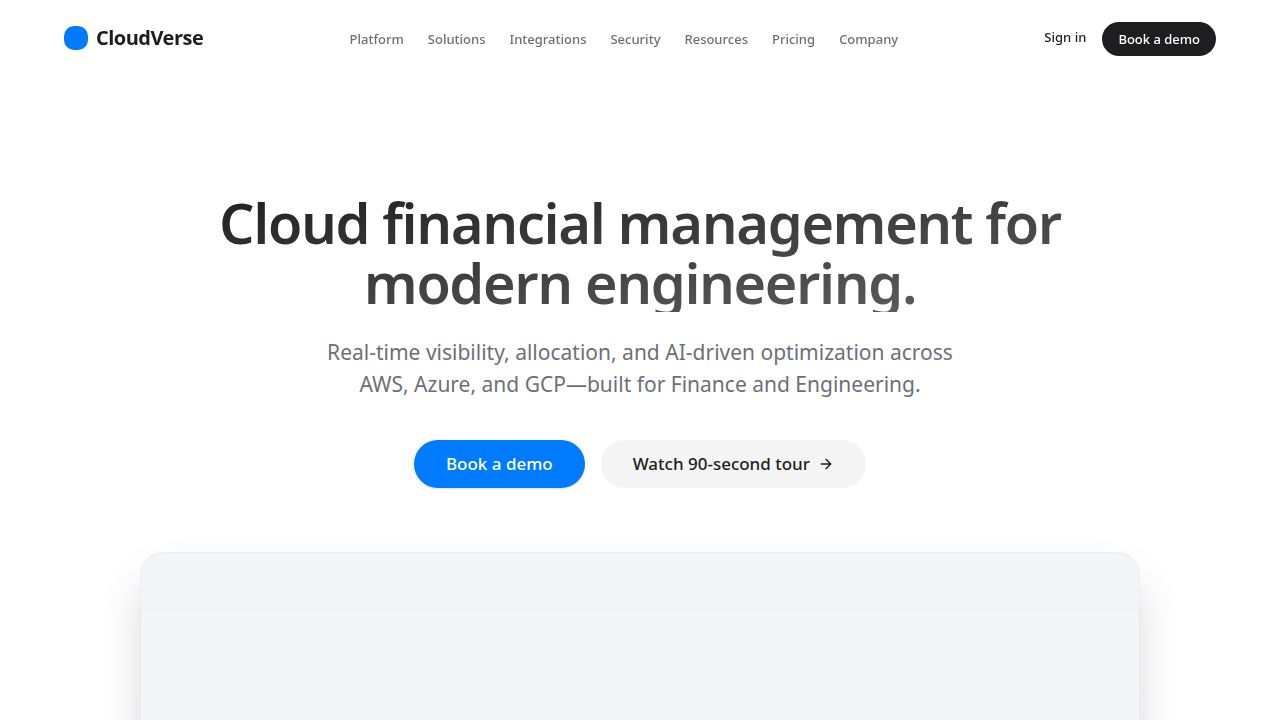
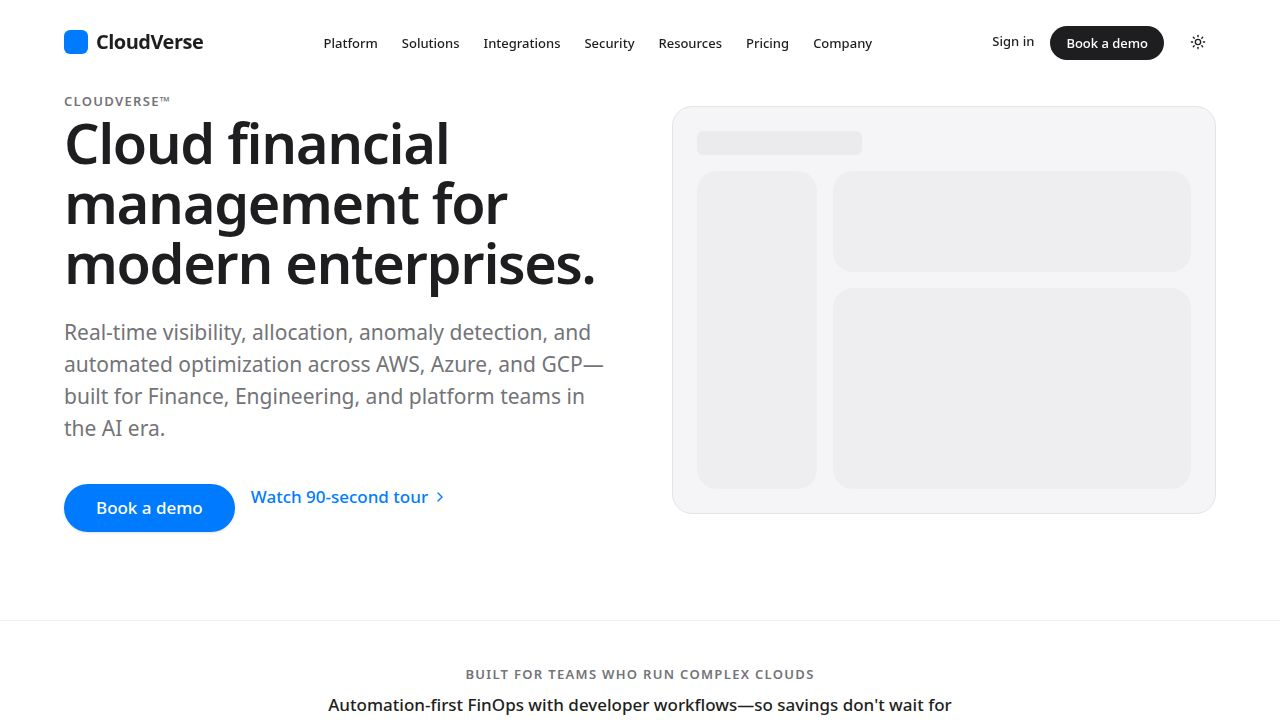
Update the home page with new copy and layout
Modify the Hero section of the Home page, updating copy, layout, and replacing the hero image with a skeleton loader.

Replit-Commit-Author: Agent
Replit-Commit-Session-Id: 45eca601-e429-41cd-93be-bbec7422ac92
Replit-Commit-Checkpoint-Type: full_checkpoint
Replit-Commit-Event-Id: 4e4f1e77-fca7-456c-b0ba-cce8cf0d1107
Replit-Commit-Screenshot-Url: https://storage.googleapis.com/screenshot-production-us-central1/d8dacd2f-b214-4560-9121-caa3bb9575fb/45eca601-e429-41cd-93be-bbec7422ac92/I5zOigt
Replit-Helium-Checkpoint-Created: true

diff --git a/client/src/pages/Home.tsx b/client/src/pages/Home.tsx
@@ -3,95 +3,93 @@ import { Section } from "@/components/Section";
 import { Button } from "@/components/Button";
 import { Card } from "@/components/Card";
 import { track } from "@/lib/track";
-import { ArrowRight, BarChart3, PieChart, Zap } from "lucide-react";
+import { ArrowRight } from "lucide-react";
 import { Link } from "wouter";
-import { Skeleton } from "@/components/Skeleton";
-import { FeatureBand } from "@/components/FeatureBand";
-import { SecurityStrip } from "@/components/SecurityStrip";
-import { CTA } from "@/components/CTA";
 
 export default function Home() {
   return (
     <BaseLayout>
       {/* Hero */}
-      <Section padding="hero" className="text-center">
-        <h1 className="cv-h1 max-w-4xl mx-auto mb-6">
-          Cloud financial management for modern engineering.
-        </h1>
-        <p className="text-[21px] leading-[32px] text-cv-muted max-w-2xl mx-auto mb-10">
-          Real-time visibility, allocation, and AI-driven optimization across AWS, Azure, and GCP—built for Finance and Engineering.
-        </p>
-        <div className="flex flex-col sm:flex-row items-center justify-center gap-4 mb-8">
-          <Link href="/demo" onClick={() => track("cta_demo", { location: "hero" })}>
-            <Button size="lg" className="w-full sm:w-auto shadow-lg shadow-primary/20">
-              Book a demo
-            </Button>
-          </Link>
-          <Link href="/tour" onClick={() => track("cta_watch_tour", { location: "hero" })}>
-            <Button variant="secondary" size="lg" className="w-full sm:w-auto gap-2">
-              Watch 90-second tour <ArrowRight className="w-4 h-4" />
-            </Button>
-          </Link>
-        </div>
-        
-        <p className="cv-cap text-cv-muted mb-16">
-          ISO 27001 and SOC 2 Type II certified.
-        </p>
-        
-        {/* Hero Image */}
-        <div className="relative mx-auto max-w-[1000px] aspect-[16/9] bg-gradient-to-b from-secondary/50 to-secondary rounded-cv border border-cv-line shadow-2xl overflow-hidden flex items-center justify-center group">
-          <img 
-             src="/assets/cloudverse-import/_next/static/media/dashboard1.2389ae47.png" 
-             alt="CloudVerse Dashboard" 
-             className="w-full h-full object-cover"
-          />
+      <Section padding="hero">
+        <div className="flex flex-col lg:flex-row items-center gap-12 lg:gap-16">
+          {/* Left: Copy */}
+          <div className="flex-1 text-left space-y-6">
+            <span className="cv-cap font-semibold tracking-widest text-cv-muted uppercase">
+              CloudVerse™
+            </span>
+            <h1 className="cv-h1">
+              Cloud financial management for modern enterprises.
+            </h1>
+            <p className="text-[21px] leading-[32px] text-cv-muted max-w-xl">
+              Real-time visibility, allocation, anomaly detection, and automated optimization across AWS, Azure, and GCP—built for Finance, Engineering, and platform teams in the AI era.
+            </p>
+            <div className="flex flex-col sm:flex-row items-start gap-4 pt-4">
+              <Link href="/demo" data-track="cta_demo" onClick={() => track("cta_demo", { location: "hero" })}>
+                <Button size="lg">
+                  Book a demo
+                </Button>
+              </Link>
+              <Link href="/tour" data-track="cta_watch_tour" onClick={() => track("cta_watch_tour", { location: "hero" })}>
+                <Button variant="tertiary" size="lg" className="text-[17px]">
+                  Watch 90-second tour
+                </Button>
+              </Link>
+            </div>
+          </div>
+          
+          {/* Right: Product Frame Skeleton */}
+          <div className="flex-1 w-full">
+            <div className="aspect-[4/3] w-full rounded-cv bg-[#F5F5F7] dark:bg-cv-surface2 border border-cv-line overflow-hidden p-6">
+              <div className="h-full w-full flex flex-col gap-4">
+                <div className="h-6 w-1/3 bg-cv-line/60 rounded-md"></div>
+                <div className="flex gap-4 flex-1">
+                  <div className="w-1/4 h-full bg-cv-line/40 rounded-lg"></div>
+                  <div className="w-3/4 flex flex-col gap-4">
+                    <div className="h-1/3 w-full bg-cv-line/40 rounded-lg"></div>
+                    <div className="h-2/3 w-full bg-cv-line/40 rounded-lg"></div>
+                  </div>
+                </div>
+              </div>
+            </div>
+          </div>
         </div>
       </Section>
 
-      {/* Trusted Strip */}
+      {/* Trust Strip */}
       <Section padding="utility" className="border-y border-cv-line/50">
-        <div className="text-center space-y-3">
+        <div className="text-center space-y-2">
           <p className="cv-cap font-semibold tracking-widest text-cv-muted uppercase">
-            Trusted by teams who run complex clouds
+            Built for teams who run complex clouds
           </p>
-          <p className="cv-body text-cv-ink font-medium">
-            Built for multi-account, multi-org environments—where accountability matters.
+          <p className="cv-body text-cv-ink font-medium max-w-2xl mx-auto">
+            Automation-first FinOps with developer workflows—so savings don't wait for month-end.
           </p>
         </div>
       </Section>
 
       {/* Pillars */}
       <Section padding="primary">
-        <div className="text-center max-w-3xl mx-auto mb-16">
-           <h2 className="cv-h2 mb-4">A single platform for visibility, accountability, and savings.</h2>
+        <div className="text-center max-w-3xl mx-auto mb-10">
+          <h2 className="cv-h2">A single platform for visibility, accountability, and action.</h2>
         </div>
         
-        <div className="grid md:grid-cols-3 gap-8">
-          <Card hover>
-            <div className="w-12 h-12 rounded-2xl bg-blue-50 text-blue-600 flex items-center justify-center mb-6">
-              <BarChart3 className="w-6 h-6" strokeWidth={1.5} />
-            </div>
+        <div className="grid md:grid-cols-3 gap-10">
+          <Card>
             <h3 className="text-[21px] font-semibold mb-3">Visibility</h3>
             <p className="cv-body text-cv-muted">
               A real-time view of spend across providers, accounts, regions, and services—down to the resource when you need it.
             </p>
           </Card>
-          <Card hover>
-            <div className="w-12 h-12 rounded-2xl bg-indigo-50 text-indigo-600 flex items-center justify-center mb-6">
-              <PieChart className="w-6 h-6" strokeWidth={1.5} />
-            </div>
+          <Card>
             <h3 className="text-[21px] font-semibold mb-3">Allocation</h3>
             <p className="cv-body text-cv-muted">
-              Showback and chargeback with rules, shared cost pools, and audit-ready exports that Finance can trust.
+              Showback and chargeback with rules, shared cost pools, and audit-ready exports Finance can trust.
             </p>
           </Card>
-          <Card hover>
-            <div className="w-12 h-12 rounded-2xl bg-purple-50 text-purple-600 flex items-center justify-center mb-6">
-              <Zap className="w-6 h-6" strokeWidth={1.5} />
-            </div>
-            <h3 className="text-[21px] font-semibold mb-3">Optimization</h3>
+          <Card>
+            <h3 className="text-[21px] font-semibold mb-3">Automation</h3>
             <p className="cv-body text-cv-muted">
-              Recommendations prioritized by impact, effort, and risk—so Engineering can act with confidence.
+              Recommendations powered by 40+ ML models—applied automatically with guardrails and tracked as realized savings.
             </p>
           </Card>
         </div>
@@ -99,57 +97,144 @@ export default function Home() {
 
       {/* How It Works */}
       <Section background="gray" padding="primary">
-        <div className="text-center max-w-3xl mx-auto mb-16">
-          <h2 className="cv-h2 mb-6">How CloudVerse™ works</h2>
-          <p className="text-[21px] leading-[32px] text-cv-muted">
-            Connect your clouds, normalize billing data, and take action—without slowing down delivery.
+        <div className="text-center max-w-3xl mx-auto mb-10">
+          <h2 className="cv-h2 mb-4">How CloudVerse works</h2>
+          <p className="text-[19px] leading-[30px] text-cv-muted">
+            Connect your clouds, normalize billing data, and automate what you can—without slowing down delivery.
           </p>
         </div>
         
-        <div className="grid md:grid-cols-3 gap-8 text-left">
-           {[
-             { title: "Connect", body: "Read-only connections with scoped permissions." },
-             { title: "Normalize", body: "Unified accounts, tags, services, and cost models across providers." },
-             { title: "Act", body: "Build views, allocate costs, and track realized savings over time." }
-           ].map((step, i) => (
-             <div key={step.title} className="relative pl-6 border-l-2 border-cv-line/50">
-                <div className="text-[13px] font-bold text-cv-muted mb-2 uppercase tracking-widest">Step 0{i+1}</div>
-                <h3 className="text-[24px] font-semibold mb-2">{step.title}</h3>
-                <p className="text-cv-muted">{step.body}</p>
-             </div>
-           ))}
+        <div className="grid md:grid-cols-3 gap-10 text-left">
+          <div className="relative pl-6 border-l-2 border-cv-ink/20 dark:border-cv-line">
+            <div className="text-[48px] font-bold text-cv-ink/20 dark:text-cv-muted/30 leading-none mb-2">01</div>
+            <h3 className="text-[22px] font-semibold mb-2">Connect</h3>
+            <p className="text-cv-muted">Read-only connections with scoped permissions.</p>
+          </div>
+          <div className="relative pl-6 border-l-2 border-cv-ink/20 dark:border-cv-line">
+            <div className="text-[48px] font-bold text-cv-ink/20 dark:text-cv-muted/30 leading-none mb-2">02</div>
+            <h3 className="text-[22px] font-semibold mb-2">Normalize</h3>
+            <p className="text-cv-muted">Unified taxonomy for accounts, tags, services, and cost models.</p>
+          </div>
+          <div className="relative pl-6 border-l-2 border-cv-ink/20 dark:border-cv-line">
+            <div className="text-[48px] font-bold text-cv-ink/20 dark:text-cv-muted/30 leading-none mb-2">03</div>
+            <h3 className="text-[22px] font-semibold mb-2">Automate</h3>
+            <p className="text-cv-muted">Apply safe actions, route the rest to owners, and measure outcomes.</p>
+          </div>
         </div>
       </Section>
 
-      {/* Feature Bands */}
-      <FeatureBand 
-        eyebrow="DYNAMIC PERSPECTIVES"
-        title="Cost views that match how your business runs."
-        body="Create stakeholder-ready views by product, environment, team, region, service, or custom dimensions. Drill down from portfolio to resource without rebuilding dashboards."
-        linkText="Explore Platform"
-        linkHref="/platform"
-      />
+      {/* Feature Band 1: Developer FinOps */}
+      <Section padding="primary">
+        <div className="flex flex-col lg:flex-row items-center gap-12">
+          <div className="flex-1 space-y-4 text-left">
+            <span className="cv-cap font-semibold tracking-widest uppercase text-cv-muted">
+              Developer FinOps (Shift-Left)
+            </span>
+            <h2 className="cv-h2">Cost visibility where engineers work.</h2>
+            <p className="cv-body text-cv-muted max-w-md">
+              Bring cost context into daily engineering workflows—before changes ship.
+            </p>
+            <div className="pt-2">
+              <Link href="/platform">
+                <Button variant="tertiary" className="text-[17px]">
+                  Explore Developer FinOps
+                </Button>
+              </Link>
+            </div>
+          </div>
+          <div className="flex-1 w-full">
+            <div className="aspect-[4/3] w-full rounded-cv bg-[#F5F5F7] dark:bg-cv-surface2 border border-cv-line"></div>
+          </div>
+        </div>
+      </Section>
 
-      <FeatureBand 
-        eyebrow="ALLOCATION"
-        title="Chargeback that holds up under scrutiny."
-        body="Allocate shared costs, map spend to business units, and export clear ledgers for review. Keep Finance and Engineering aligned on a single source of truth."
-        linkText="Explore Allocation"
-        linkHref="/solutions"
-        reversed
-      />
+      {/* Feature Band 2: Tag Engine */}
+      <Section padding="primary">
+        <div className="flex flex-col lg:flex-row-reverse items-center gap-12">
+          <div className="flex-1 space-y-4 text-left">
+            <span className="cv-cap font-semibold tracking-widest uppercase text-cv-muted">
+              Autonomous Tag Engine
+            </span>
+            <h2 className="cv-h2">Clean allocation starts with clean dimensions.</h2>
+            <p className="cv-body text-cv-muted max-w-md">
+              Normalize tags, fix drift, and map resources to owners so chargeback holds up under scrutiny.
+            </p>
+            <div className="pt-2">
+              <Link href="/platform">
+                <Button variant="tertiary" className="text-[17px]">
+                  Explore Tag Engine
+                </Button>
+              </Link>
+            </div>
+          </div>
+          <div className="flex-1 w-full">
+            <div className="aspect-[4/3] w-full rounded-cv bg-[#F5F5F7] dark:bg-cv-surface2 border border-cv-line"></div>
+          </div>
+        </div>
+      </Section>
 
-      <FeatureBand 
-        eyebrow="OPTIMIZATION"
-        title="Actions engineers will actually take."
-        body="Identify waste, rightsize safely, and prioritize the changes that move the bill. Track savings as “realized,” not just estimated."
-        linkText="Explore Optimization"
-        linkHref="/platform"
-      />
+      {/* Feature Band 3: Anomalies + Recommendations */}
+      <Section padding="primary">
+        <div className="flex flex-col lg:flex-row items-center gap-12">
+          <div className="flex-1 space-y-4 text-left">
+            <span className="cv-cap font-semibold tracking-widest uppercase text-cv-muted">
+              Anomalies + Recommendations
+            </span>
+            <h2 className="cv-h2">Detect spikes. Predict risk. Take action.</h2>
+            <p className="cv-body text-cv-muted max-w-md">
+              Detected and predicted anomalies with recommendation paths—so teams can respond before the bill does.
+            </p>
+            <div className="pt-2">
+              <Link href="/platform">
+                <Button variant="tertiary" className="text-[17px]">
+                  Explore Automation
+                </Button>
+              </Link>
+            </div>
+          </div>
+          <div className="flex-1 w-full">
+            <div className="aspect-[4/3] w-full rounded-cv bg-[#F5F5F7] dark:bg-cv-surface2 border border-cv-line"></div>
+          </div>
+        </div>
+      </Section>
 
-      {/* Security & CTA */}
-      <SecurityStrip />
-      <CTA />
+      {/* Security Strip - Light */}
+      <Section padding="utility" className="border-y border-cv-line/50">
+        <div className="text-center max-w-2xl mx-auto space-y-4">
+          <h2 className="cv-h2">Security and compliance, built in.</h2>
+          <p className="cv-body text-cv-muted">
+            Designed for enterprise environments—from access controls to auditability.
+          </p>
+          <p className="cv-cap font-semibold text-cv-muted pt-2">
+            ISO 27001 • SOC 2 Type II
+          </p>
+          <div className="pt-2">
+            <Link href="/security">
+              <Button variant="tertiary" className="text-[15px]">
+                Visit Security
+              </Button>
+            </Link>
+          </div>
+        </div>
+      </Section>
+
+      {/* Final CTA */}
+      <Section padding="primary" className="text-center">
+        <div className="max-w-2xl mx-auto space-y-6">
+          <h2 className="cv-h2">See CloudVerse™ on your data.</h2>
+          <p className="cv-body text-cv-muted">
+            We'll map your spend structure, allocation model, and the fastest path to measurable savings.
+          </p>
+          <div className="flex flex-col sm:flex-row items-center justify-center gap-4 pt-2">
+            <Link href="/demo" data-track="cta_demo" onClick={() => track("cta_demo", { location: "bottom_cta" })}>
+              <Button size="lg">Book a demo</Button>
+            </Link>
+            <Link href="/contact" data-track="cta_contact" onClick={() => track("cta_contact", { location: "bottom_cta" })}>
+              <Button variant="secondary" size="lg">Contact sales</Button>
+            </Link>
+          </div>
+        </div>
+      </Section>
     </BaseLayout>
   );
 }
